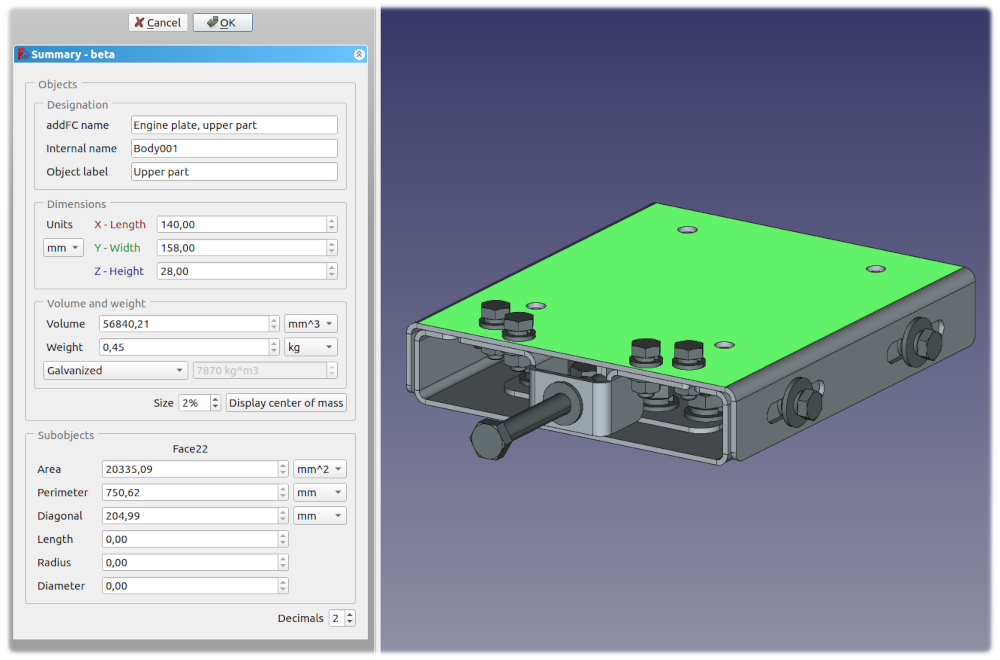
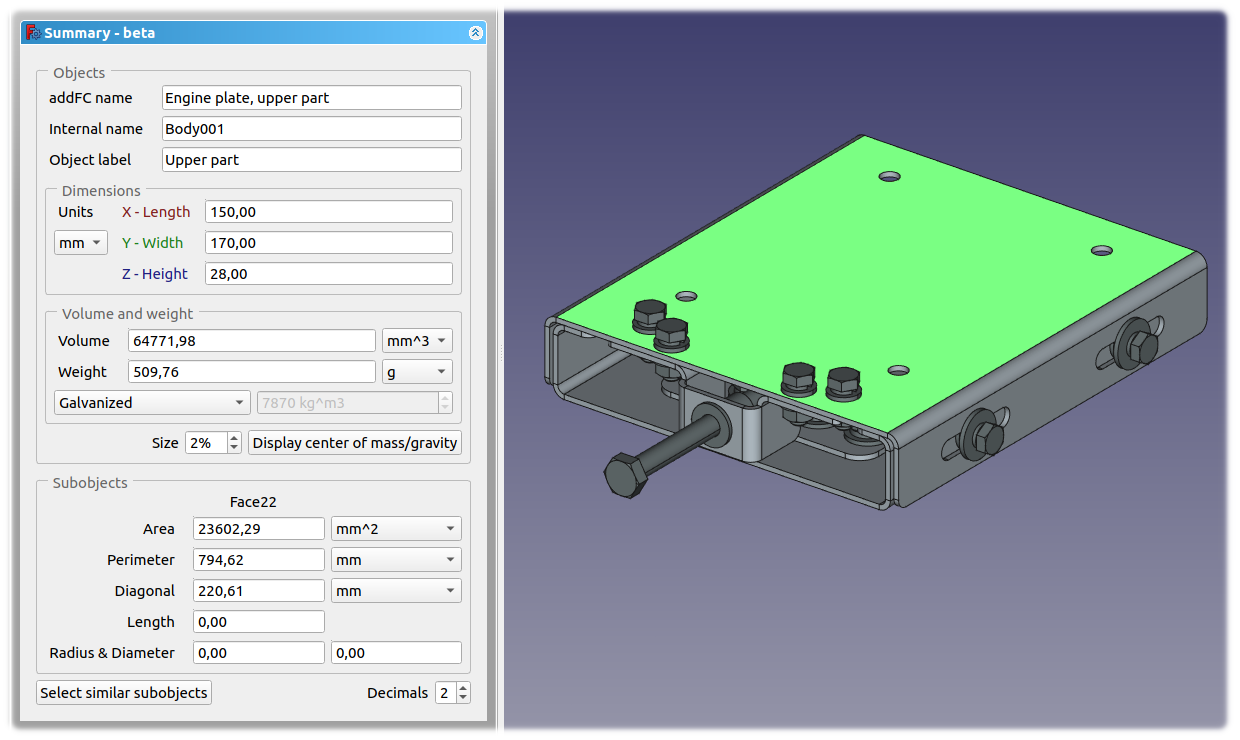
Improvements: Summary

diff --git a/repo/localization/ui_ru.ts b/repo/localization/ui_ru.ts
@@ -336,17 +336,17 @@ All models are created in FreeCAD version 0.21.2.</source>
     <message>
         <location filename="../ui/pref_other.ui" line="148"/>
         <source>User templates</source>
-        <translation type="unfinished"></translation>
+        <translation>Пользовательские шаблоны</translation>
     </message>
     <message>
         <location filename="../ui/pref_other.ui" line="154"/>
         <source>Directory with templates</source>
-        <translation type="unfinished"></translation>
+        <translation>Каталог с шаблонами</translation>
     </message>
     <message>
         <location filename="../ui/pref_other.ui" line="164"/>
         <source>Select</source>
-        <translation type="unfinished"></translation>
+        <translation>Выбрать</translation>
     </message>
     <message>
         <location filename="../ui/pref_other.ui" line="190"/>
@@ -609,22 +609,22 @@ All models are created in FreeCAD version 0.21.2.</source>
     <message>
         <location filename="../ui/insert.ui" line="26"/>
         <source>Select a template</source>
-        <translation type="unfinished"></translation>
+        <translation>Выберите шаблон</translation>
     </message>
     <message>
         <location filename="../ui/insert.ui" line="34"/>
         <source>Source of templates</source>
-        <translation type="unfinished"></translation>
+        <translation>Источник шаблонов</translation>
     </message>
     <message>
         <location filename="../ui/insert.ui" line="56"/>
         <source>Select a template to create a drawing.</source>
-        <translation type="unfinished"></translation>
+        <translation>Выберите шаблон для создания чертежа.</translation>
     </message>
     <message>
         <location filename="../ui/insert.ui" line="65"/>
         <source>Switch to TechDraw</source>
-        <translation type="unfinished"></translation>
+        <translation>Перейти в TechDraw</translation>
     </message>
     <message>
         <location filename="../ui/insert.ui" line="92"/>
@@ -932,7 +932,6 @@ All models are created in FreeCAD version 0.21.2.</source>
     </message>
     <message>
         <location filename="../../utils/addFC_Pipe.ui" line="100"/>
-        <location filename="../../utils/addFC_Summary.ui" line="462"/>
         <source>Diameter</source>
         <translation>Диаметр</translation>
     </message>
@@ -1027,47 +1026,47 @@ All models are created in FreeCAD version 0.21.2.</source>
         <translation type="unfinished"></translation>
     </message>
     <message>
-        <location filename="../../utils/addFC_Summary.ui" line="342"/>
-        <source>Display center of mass</source>
-        <translation>Отобразить центр массы</translation>
-    </message>
-    <message>
         <location filename="../../utils/addFC_Summary.ui" line="357"/>
         <source>Subobjects </source>
         <translation>Подобъекты </translation>
     </message>
     <message>
-        <location filename="../../utils/addFC_Summary.ui" line="393"/>
-        <source>Radius</source>
-        <translation>Радиус</translation>
-    </message>
-    <message>
-        <location filename="../../utils/addFC_Summary.ui" line="419"/>
+        <location filename="../../utils/addFC_Summary.ui" line="493"/>
         <source>Length</source>
         <translation>Длина</translation>
     </message>
     <message>
-        <location filename="../../utils/addFC_Summary.ui" line="429"/>
+        <location filename="../../utils/addFC_Summary.ui" line="467"/>
         <source>Perimeter</source>
         <translation>Периметр</translation>
     </message>
     <message>
-        <location filename="../../utils/addFC_Summary.ui" line="439"/>
+        <location filename="../../utils/addFC_Summary.ui" line="480"/>
         <source>Area</source>
         <translation>Площадь</translation>
     </message>
     <message>
-        <location filename="../../utils/addFC_Summary.ui" line="514"/>
+        <location filename="../../utils/addFC_Summary.ui" line="454"/>
         <source>Diagonal</source>
         <translation>Диагональ</translation>
     </message>
     <message>
-        <location filename="../../utils/addFC_Summary.ui" line="544"/>
+        <location filename="../../utils/addFC_Summary.ui" line="342"/>
+        <source>Display center of mass/gravity</source>
+        <translation>Центр массы/гравитации</translation>
+    </message>
+    <message>
+        <location filename="../../utils/addFC_Summary.ui" line="396"/>
+        <source>Radius &amp; Diameter</source>
+        <translation>Радиус и диаметр</translation>
+    </message>
+    <message>
+        <location filename="../../utils/addFC_Summary.ui" line="549"/>
         <source>Select similar subobjects</source>
         <translation>Выбрать похожие</translation>
     </message>
     <message>
-        <location filename="../../utils/addFC_Summary.ui" line="564"/>
+        <location filename="../../utils/addFC_Summary.ui" line="569"/>
         <source>Decimals</source>
         <translation>Десятичные</translation>
     </message>

diff --git a/repo/localization/ui.ts b/repo/localization/ui.ts
@@ -931,7 +931,6 @@ All models are created in FreeCAD version 0.21.2.</source>
     </message>
     <message>
         <location filename="../../utils/addFC_Pipe.ui" line="100"/>
-        <location filename="../../utils/addFC_Summary.ui" line="462"/>
         <source>Diameter</source>
         <translation type="unfinished"></translation>
     </message>
@@ -1027,7 +1026,7 @@ All models are created in FreeCAD version 0.21.2.</source>
     </message>
     <message>
         <location filename="../../utils/addFC_Summary.ui" line="342"/>
-        <source>Display center of mass</source>
+        <source>Display center of mass/gravity</source>
         <translation type="unfinished"></translation>
     </message>
     <message>
@@ -1036,37 +1035,37 @@ All models are created in FreeCAD version 0.21.2.</source>
         <translation type="unfinished"></translation>
     </message>
     <message>
-        <location filename="../../utils/addFC_Summary.ui" line="393"/>
-        <source>Radius</source>
+        <location filename="../../utils/addFC_Summary.ui" line="396"/>
+        <source>Radius &amp; Diameter</source>
         <translation type="unfinished"></translation>
     </message>
     <message>
-        <location filename="../../utils/addFC_Summary.ui" line="419"/>
-        <source>Length</source>
-        <translation type="unfinished"></translation>
-    </message>
-    <message>
-        <location filename="../../utils/addFC_Summary.ui" line="429"/>
-        <source>Perimeter</source>
-        <translation type="unfinished"></translation>
-    </message>
-    <message>
-        <location filename="../../utils/addFC_Summary.ui" line="439"/>
-        <source>Area</source>
-        <translation type="unfinished"></translation>
-    </message>
-    <message>
-        <location filename="../../utils/addFC_Summary.ui" line="514"/>
+        <location filename="../../utils/addFC_Summary.ui" line="454"/>
         <source>Diagonal</source>
         <translation type="unfinished"></translation>
     </message>
     <message>
-        <location filename="../../utils/addFC_Summary.ui" line="544"/>
+        <location filename="../../utils/addFC_Summary.ui" line="467"/>
+        <source>Perimeter</source>
+        <translation type="unfinished"></translation>
+    </message>
+    <message>
+        <location filename="../../utils/addFC_Summary.ui" line="480"/>
+        <source>Area</source>
+        <translation type="unfinished"></translation>
+    </message>
+    <message>
+        <location filename="../../utils/addFC_Summary.ui" line="493"/>
+        <source>Length</source>
+        <translation type="unfinished"></translation>
+    </message>
+    <message>
+        <location filename="../../utils/addFC_Summary.ui" line="549"/>
         <source>Select similar subobjects</source>
         <translation type="unfinished"></translation>
     </message>
     <message>
-        <location filename="../../utils/addFC_Summary.ui" line="564"/>
+        <location filename="../../utils/addFC_Summary.ui" line="569"/>
         <source>Decimals</source>
         <translation type="unfinished"></translation>
     </message>

diff --git a/utils/addFC_Summary.py b/utils/addFC_Summary.py
@@ -70,7 +70,7 @@ observer = SelectionObserver()
 class Info():
     area = 0
     bound_box = [0, 0, 0]
-    center_of_mass = None
+    center_of_MG = None
     conf = P.pref_configuration
     decimals = 2
     designation = ['', '', '']
@@ -144,30 +144,30 @@ class Info():
 
         # set the center of mass:
         def set_com():
-            if self.center_of_mass is None:
+            if self.center_of_MG is None:
                 return
 
             ad, obj = FreeCAD.ActiveDocument, None
 
             objects = ad.findObjects('Part::Sphere')
             for i in objects:
-                if i.Label2 == self.center_of_mass[0]:
+                if i.Label2 == self.center_of_MG[0]:
                     obj = i
                     break
             if obj is None:
-                obj = ad.addObject('Part::Sphere', 'CoM_001')
-                obj.Label2 = self.center_of_mass[0]
+                obj = ad.addObject('Part::Sphere', self.center_of_MG[4][0])
+                obj.Label2 = self.center_of_MG[0]
 
-            obj.ViewObject.ShapeColor = (170, 0, 0)
+            obj.ViewObject.ShapeColor = self.center_of_MG[4][1]
             obj.ViewObject.DisplayMode = 'Shaded'
-            position = self.center_of_mass[1] + self.center_of_mass[3]
+            position = self.center_of_MG[1] + self.center_of_MG[3]
             obj.Placement.Base = position
             radius = round(
-                self.center_of_mass[2] * self.form.CoM_Size.value() / 100)
+                self.center_of_MG[2] * self.form.CoMG_Size.value() / 100)
             obj.Radius = radius
             obj.recompute(True)
 
-        self.form.CoM_Set.clicked.connect(set_com)
+        self.form.CoMG_Set.clicked.connect(set_com)
 
         # select similar subobjects:
         self.form.SelectSimilar.clicked.connect(self.select_similar)
@@ -356,7 +356,7 @@ class Info():
         designation = [[], [], []]
         bound_box = [0, 0, 0]
         volume = 0
-        center_of_mass = None
+        center_of_MG = None
 
         for k, v in self.objects.items():
             # designation:
@@ -365,24 +365,28 @@ class Info():
             designation[1].append(v.Name)
             designation[2].append(v.Label)
             # shape:
-            try:
+            if hasattr(v, 'Tip'):
                 shape = v.Tip.Shape
-            except BaseException:
+            else:
                 shape = v.Shape
             bound_box[0] += shape.BoundBox.XLength
             bound_box[1] += shape.BoundBox.YLength
             bound_box[2] += shape.BoundBox.ZLength
             volume += shape.Volume
             # center of mass:
-            try:
+            if hasattr(shape, 'CenterOfMass'):
                 center = shape.CenterOfMass
-            except BaseException:
+                extra = (f'{v.Label}_CoM_001', (170, 0, 0))
+            else:
                 center = shape.CenterOfGravity
-            center_of_mass = [
+                extra = (f'{v.Label}_CoG_001', (0, 85, 255))
+            # result:
+            center_of_MG = [
                 k,
                 center,
                 shape.BoundBox.DiagonalLength,
                 v.Placement.Base,
+                extra,
             ]
 
         self.designation[0] = ', '.join(designation[0])
@@ -391,7 +395,7 @@ class Info():
 
         self.bound_box = bound_box
         self.volume = volume
-        self.center_of_mass = center_of_mass
+        self.center_of_MG = center_of_MG
 
         self.set_designation()
         self.set_bb()

diff --git a/CHANGELOG.md b/CHANGELOG.md
@@ -2,6 +2,10 @@
 
 ## Release notes
 
+#### 2025.04.19 (**1.5.1**):
+* Improvements: __Summary__ (information about selected elements).
+* Translation updated: Russian.
+
 #### 2025.04.18 (**1.5.0**):
 * Update: stdRU (templates, font and example).
 

diff --git a/README.md b/README.md
@@ -1,6 +1,6 @@
 # addFC - additional tools for FreeCAD
 
-Current version 1.5.0 - [release notes](CHANGELOG.md).
+Current version 1.5.1 - [release notes](CHANGELOG.md).
 
 
 ### Overview
